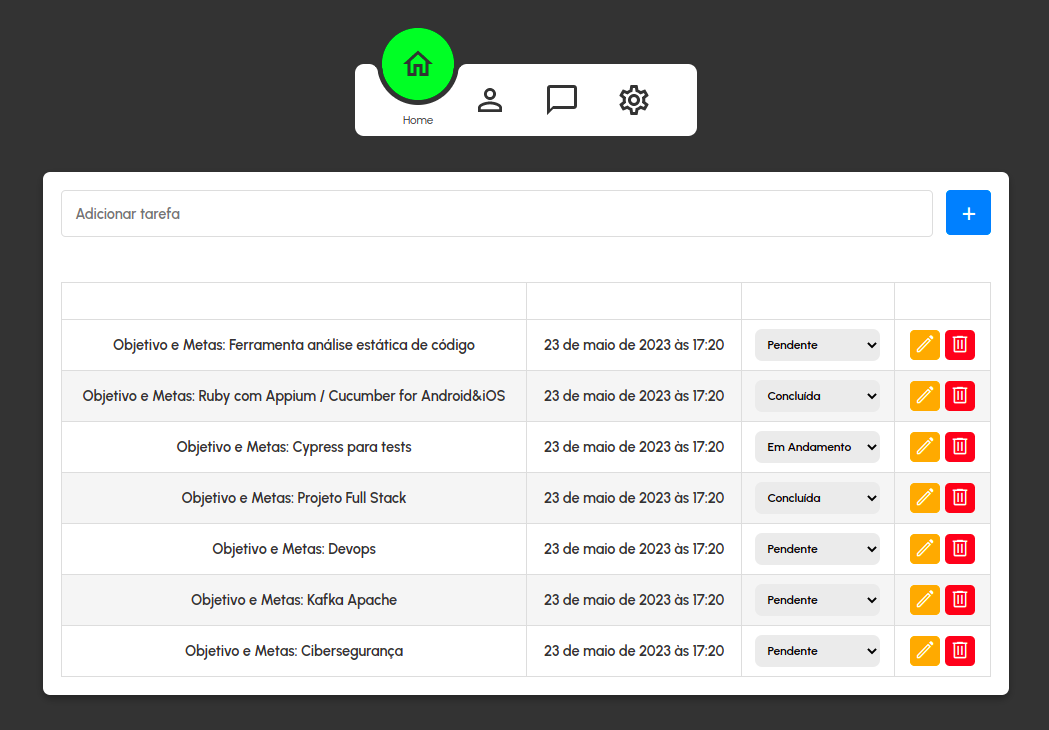
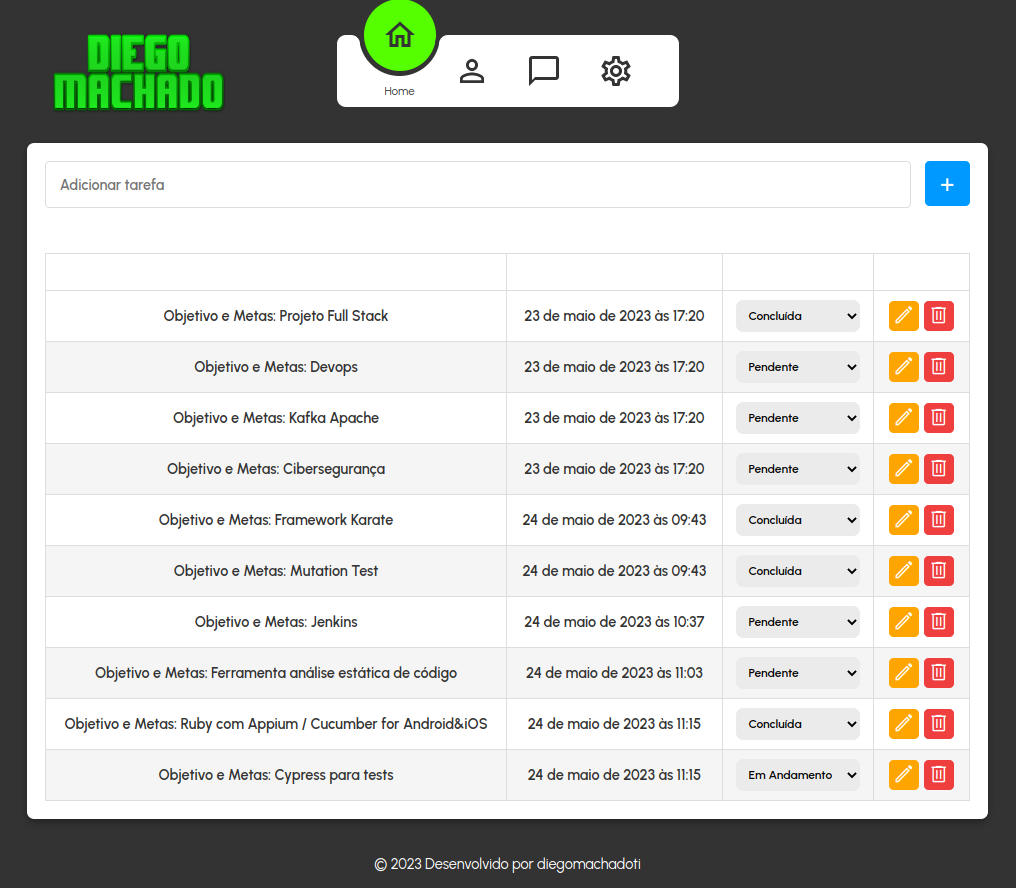
Ajustando pagina principal + refactor

diff --git a/frontend/css/style.css b/frontend/css/style.css
@@ -2,20 +2,28 @@
 @import url("https://fonts.googleapis.com/css2?family=Urbanist:ital,wght@0,100;0,200;0,300;0,400;0,500;0,600;0,700;0,800;0,900;1,100;1,200;1,300;1,400;1,500;1,600;1,700;1,800;1,900&display=swap");
 
 /* Estilizar pagina principal */
-*, *::before, *::after {
+*,
+*::before,
+*::after {
     margin: 0;
     padding: 0;
     box-sizing: border-box;
     font-family: "Urbanist", sans-serif;
 }
 
-
 /* Background */
 body {
     /* background-color: #7a7c7e; */
     background-color: var(--background-color);
     color: white;
+}
 
+/* Imagem logo Principal */
+.image-container {
+    padding: 2%;
+    position: absolute;
+    margin-top: -2rem;
+    margin-left: 5%;
 }
 
 /* Janela aonde contem todos os ementos */
@@ -125,7 +133,6 @@ select:hover {
     background-color: rgba(237, 42, 42, 0.9);
 }
 
-
 /* Menu */
 :root {
     --icon-size: 2.5rem;
@@ -133,66 +140,66 @@ select:hover {
     --border-radius: calc(var(--icon-size) / 4);
     --nav-item-padding: calc(var(--icon-size) / 2);
     --background-color: #333;
-  }
-  
-  .navbar-container {
+}
+
+.navbar-container {
     background-color: white;
     border-radius: var(--border-radius);
     width: max-content;
     margin: 0 auto;
     margin-top: 5rem;
     padding: 0 calc(var(--nav-item-padding) * 1.5);
-  }
-  
-  .list {
+}
+
+.list {
     display: flex;
     margin: 0;
     padding: 0;
     list-style: none;
-  }
-  
-  .list a {
+}
+
+.list a {
     color: #333;
     text-decoration: none;
     display: flex;
     flex-direction: column;
     align-items: center;
     padding: var(--nav-item-padding);
-  }
-  
-  .list .text {
-    font-size: .8em;
+}
+
+.list .text {
+    font-size: 0.8em;
     opacity: 0;
     pointer-events: none;
     transition: 250ms ease-in-out;
     position: absolute;
-    bottom: calc(.5 * var(--nav-item-padding));
+    bottom: calc(0.5 * var(--nav-item-padding));
     transform: translateY(50%);
-  }
-  
-  .list .icon {
+}
+
+.list .icon {
     position: relative;
     transition: 250ms ease-in-out;
-  }
-  
-  .list .icon svg {
+}
+
+.list .icon svg {
     fill: currentColor;
     width: var(--icon-size);
     height: var(--icon-size);
     display: block;
-  }
-  
-  .list .active .text {
+}
+
+.list .active .text {
     pointer-events: all;
     opacity: 1;
     transform: translateY(0);
-  }
-  
-  .list .active .icon {
+}
+
+.list .active .icon {
     transform: translateY(calc(-50% - var(--nav-item-padding)));
-  }
-  
-  /* .list .active::before {
+}
+
+/* .list .active::before {
     content: "";
     box-sizing: content-box;
     position: absolute;
@@ -229,39 +236,41 @@ select:hover {
     border-bottom: none;
     border-right: none;
   } */
-  
-  .list {
+
+.list {
     position: relative;
-  }
-  
-  .indicator {
+}
+
+.indicator {
     position: absolute;
-    left: calc(var(--position) * (var(--icon-size) + var(--nav-item-padding) * 2));
+    left: calc(
+        var(--position) * (var(--icon-size) + var(--nav-item-padding) * 2)
+    );
     transition: 250ms ease-in-out;
-  }
-  
-  .indicator::after,
-  .indicator::before {
+}
+
+.indicator::after,
+.indicator::before {
     content: "";
     position: absolute;
     border-radius: 100%;
-  }
-  
-  .indicator::after {
+}
+
+.indicator::after {
     background-color: hsl(100, 100%, 50%);
     width: calc(var(--icon-size) * 2);
     height: calc(var(--icon-size) * 2);
     top: calc(-1 * var(--icon-size));
-  }
-  .indicator::before {
+}
+.indicator::before {
     background-color: var(--background-color);
     width: calc((var(--icon-size) + var(--indicator-spacing)) * 2);
     height: calc((var(--icon-size) + var(--indicator-spacing)) * 2);
     top: calc(-1 * var(--icon-size) - var(--indicator-spacing));
     left: calc(-1 * var(--indicator-spacing));
-  }
-  
-  .corners::before {
+}
+
+.corners::before {
     content: "";
     box-sizing: content-box;
     position: absolute;
@@ -270,7 +279,7 @@ select:hover {
     background-color: white;
     z-index: 1;
     top: calc(-1 * var(--indicator-spacing));
-    left: calc(.2 * var(--indicator-spacing));
+    left: calc(0.2 * var(--indicator-spacing));
     transform: translateX(-100%);
     border-top-right-radius: 100%;
     border-width: calc(var(--indicator-spacing));
@@ -278,9 +287,9 @@ select:hover {
     border-style: solid;
     border-bottom: none;
     border-left: none;
-  }
-  
-  .corners::after {
+}
+
+.corners::after {
     content: "";
     box-sizing: content-box;
     position: absolute;
@@ -289,41 +298,47 @@ select:hover {
     background-color: white;
     z-index: 1;
     top: calc(-1 * var(--indicator-spacing));
-    left: calc(var(--icon-size) * 2 + -.2 * var(--indicator-spacing));
+    left: calc(var(--icon-size) * 2 + -0.2 * var(--indicator-spacing));
     border-top-left-radius: 100%;
     border-width: calc(var(--indicator-spacing));
     border-color: var(--background-color);
     border-style: solid;
     border-bottom: none;
     border-right: none;
-  }
+}
 
 /* Pop-up */
 .popup {
-  position: fixed;
-  top: 30%;
-  left: 50%;
-  transform: translate(-50%, -50%);
-  background-color: #333;
-  border-radius: 8px;
-  padding: 20px;
-  width: 300px;
-  box-shadow: 0 4px 8px rgba(0, 0, 0, 0.3);
+    position: fixed;
+    top: 30%;
+    left: 50%;
+    transform: translate(-50%, -50%);
+    background-color: #333;
+    border-radius: 8px;
+    padding: 20px;
+    width: 300px;
+    box-shadow: 0 4px 8px rgba(0, 0, 0, 0.3);
 }
 
 .popup-content {
-  text-align: center;
+    text-align: center;
 }
 
 .popup-button {
-  margin-top: 10px;
-  width: 50%;
-  border: none;
-  padding: 10px;
-  border-radius: 8px;
-  font-weight: 600;
-  text-transform: capitalize;
-  background-color: #ebebeb;
-  cursor: pointer;
+    margin-top: 10px;
+    width: 50%;
+    border: none;
+    padding: 10px;
+    border-radius: 8px;
+    font-weight: 600;
+    text-transform: capitalize;
+    background-color: #ebebeb;
+    cursor: pointer;
 }
 
+/* Rodapé message*/
+.elementor-widget-container {
+    display: flex;
+    justify-content: center;
+    align-items: center;
+}

diff --git a/frontend/index.html b/frontend/index.html
@@ -13,6 +13,15 @@
         <title>Lista de Tarefas</title>
     </head>
     <body>
+        <!-- Imagem -->
+        <div class="image-container">
+            <img
+                src="./logo.png"
+                alt="Imagem PNG"
+                style="width: 200px; height: 100px"
+            />
+        </div>
+
         <!-- Menu -->
         <nav class="navbar-container">
             <ul class="list">
@@ -52,7 +61,9 @@
                     </a>
                 </li>
                 <li>
-                    <a href="https://api.whatsapp.com/send?phone=5534996705509&text=Redirecionamento%20feito%20atrav%C3%A9s%20do%20projeto%20full%20stack%20do%20github%20do%20Diego.">
+                    <a
+                        href="https://api.whatsapp.com/send?phone=5534996705509&text=Redirecionamento%20feito%20atrav%C3%A9s%20do%20projeto%20full%20stack%20do%20github%20do%20Diego."
+                    >
                         <div class="icon">
                             <svg
                                 xmlns="http://www.w3.org/2000/svg"
@@ -154,7 +165,9 @@
                 </tbody>
             </table>
         </main>
-
+        <div class="elementor-widget-container">
+            <p>© 2023 Desenvolvido por diegomachadoti</p>
+        </div>
         <script src="./js/script.js"></script>
     </body>
 </html>
